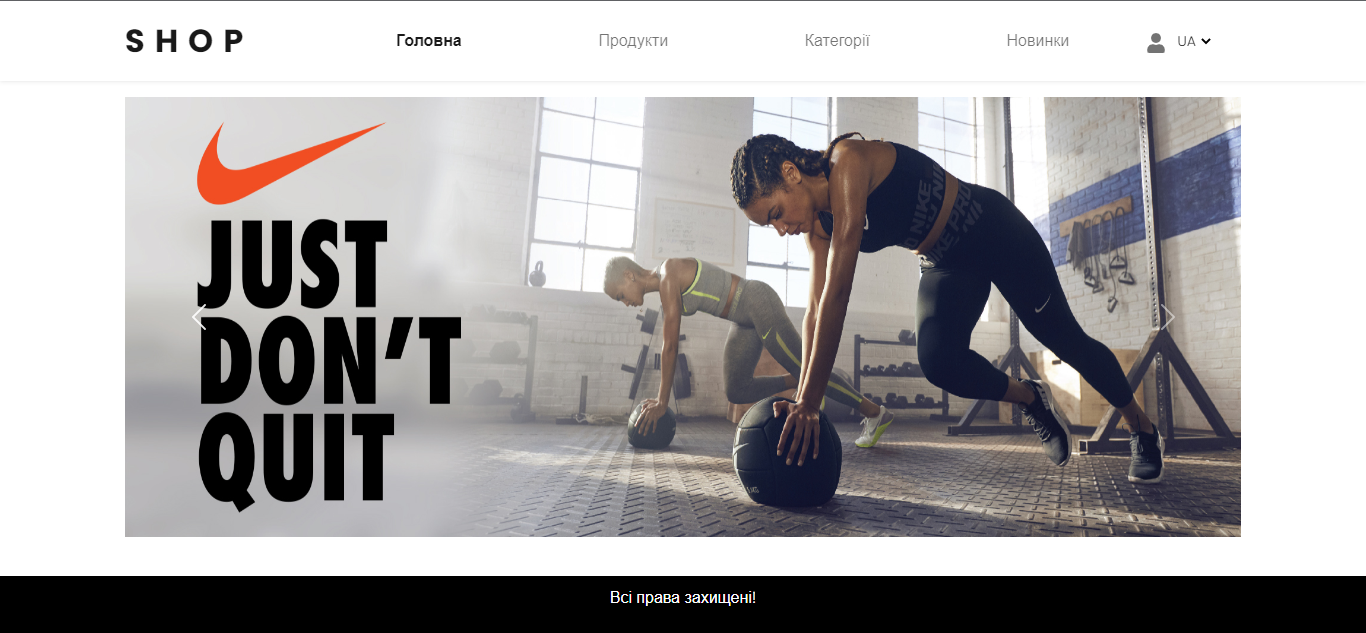
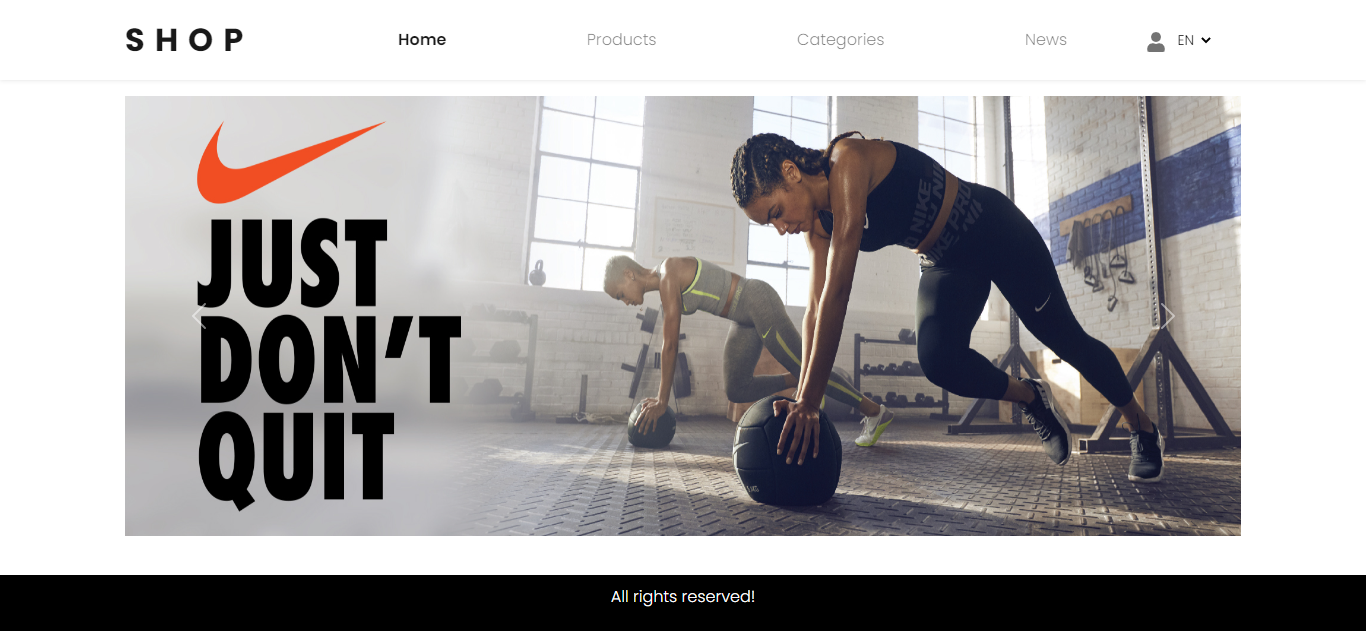
Sample code

diff --git a/client/src/components/Footer.tsx b/client/src/components/Footer.tsx
@@ -1,8 +1,12 @@
 import React from 'react';
+import { useTranslation } from 'react-i18next';
+
 const Footer = () => {
+    const { t, i18n } = useTranslation()
+
     return (
         <div>
-            <p>Всі права захищені!</p>
+            <p>{t('footer.title')}</p>
         </div>
     );
 };

diff --git a/README.md b/README.md
@@ -21,7 +21,7 @@
 <p style="font-size: 25px;"><strong>- Home</strong><span style="font-size: 20px;"> is the first page you see</span></p>
 
 <p align="center">
-  <img src="/README/Home.png" alt="Logo" width="800px" height="400px"/>
+  <img src="/README/home.png" alt="Logo" width="800px" height="400px"/>
 </p>
 
 ---
